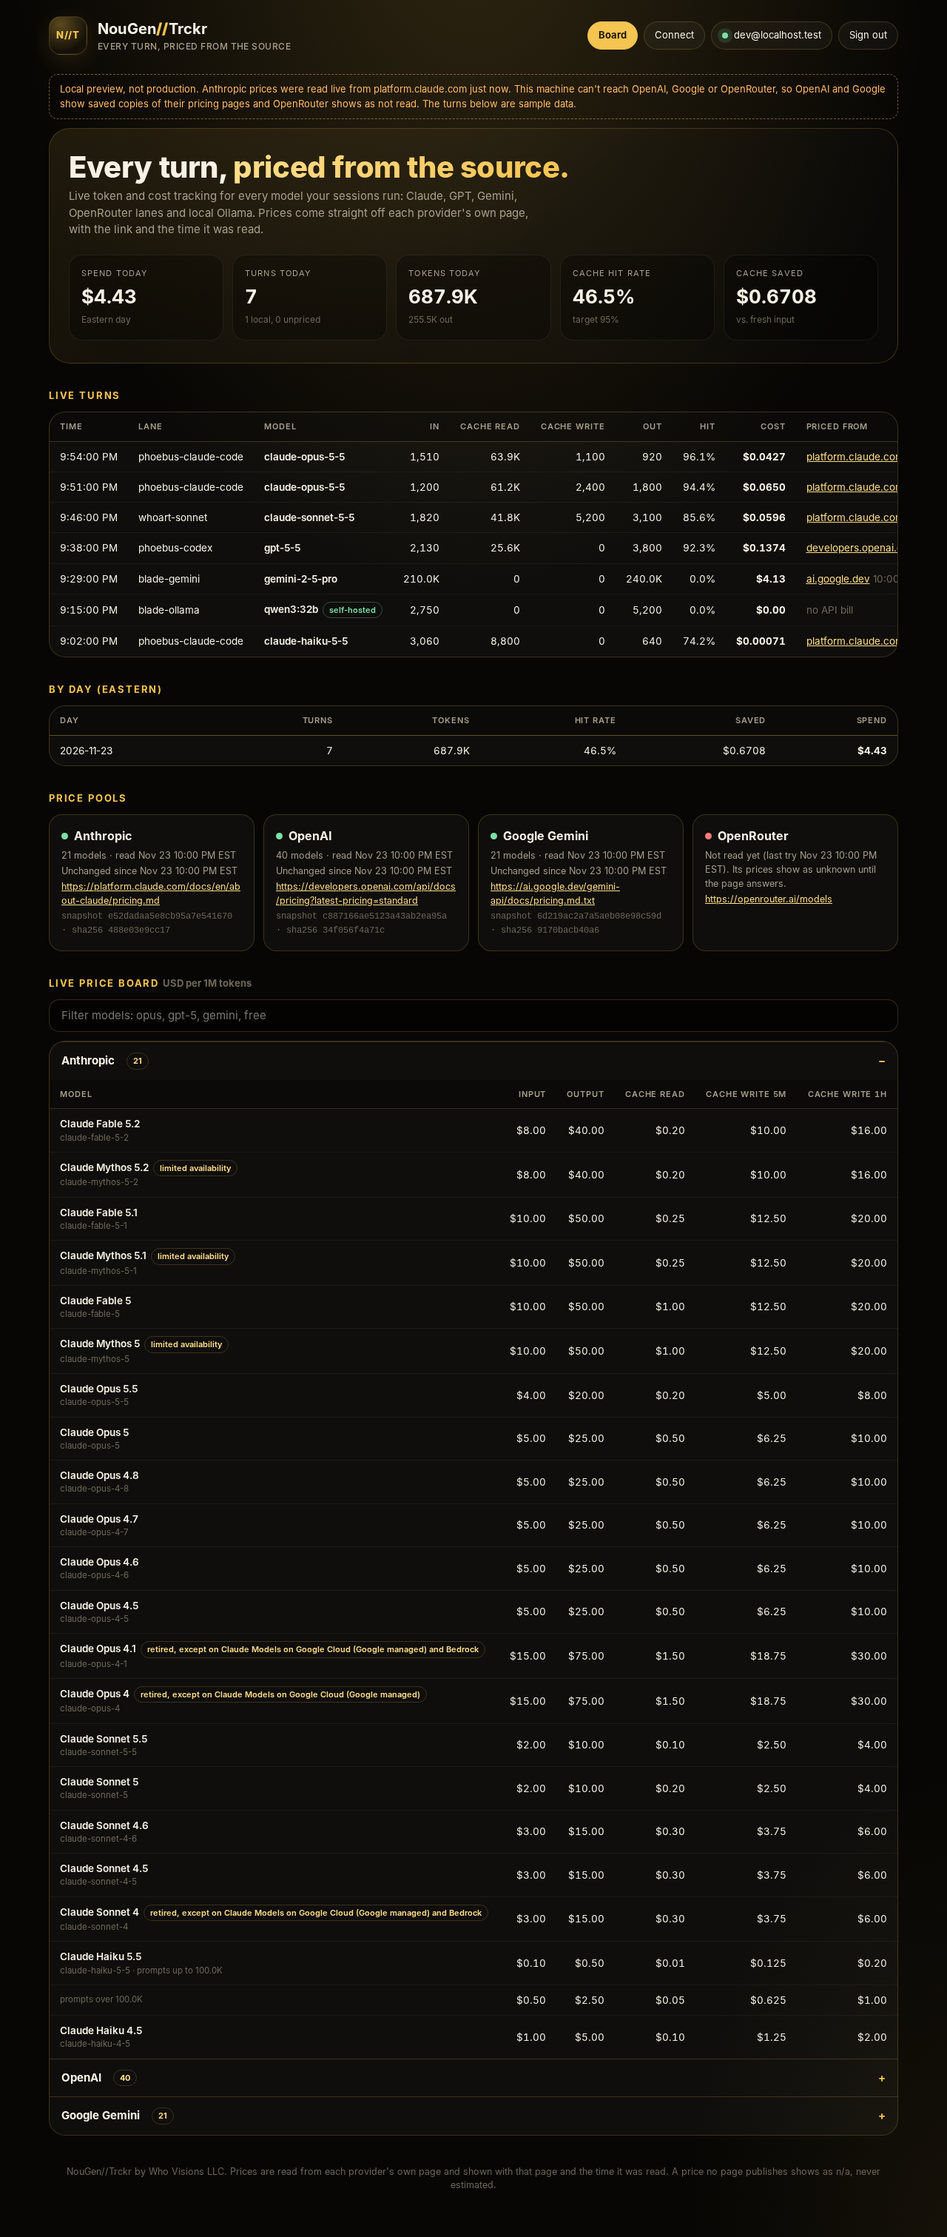
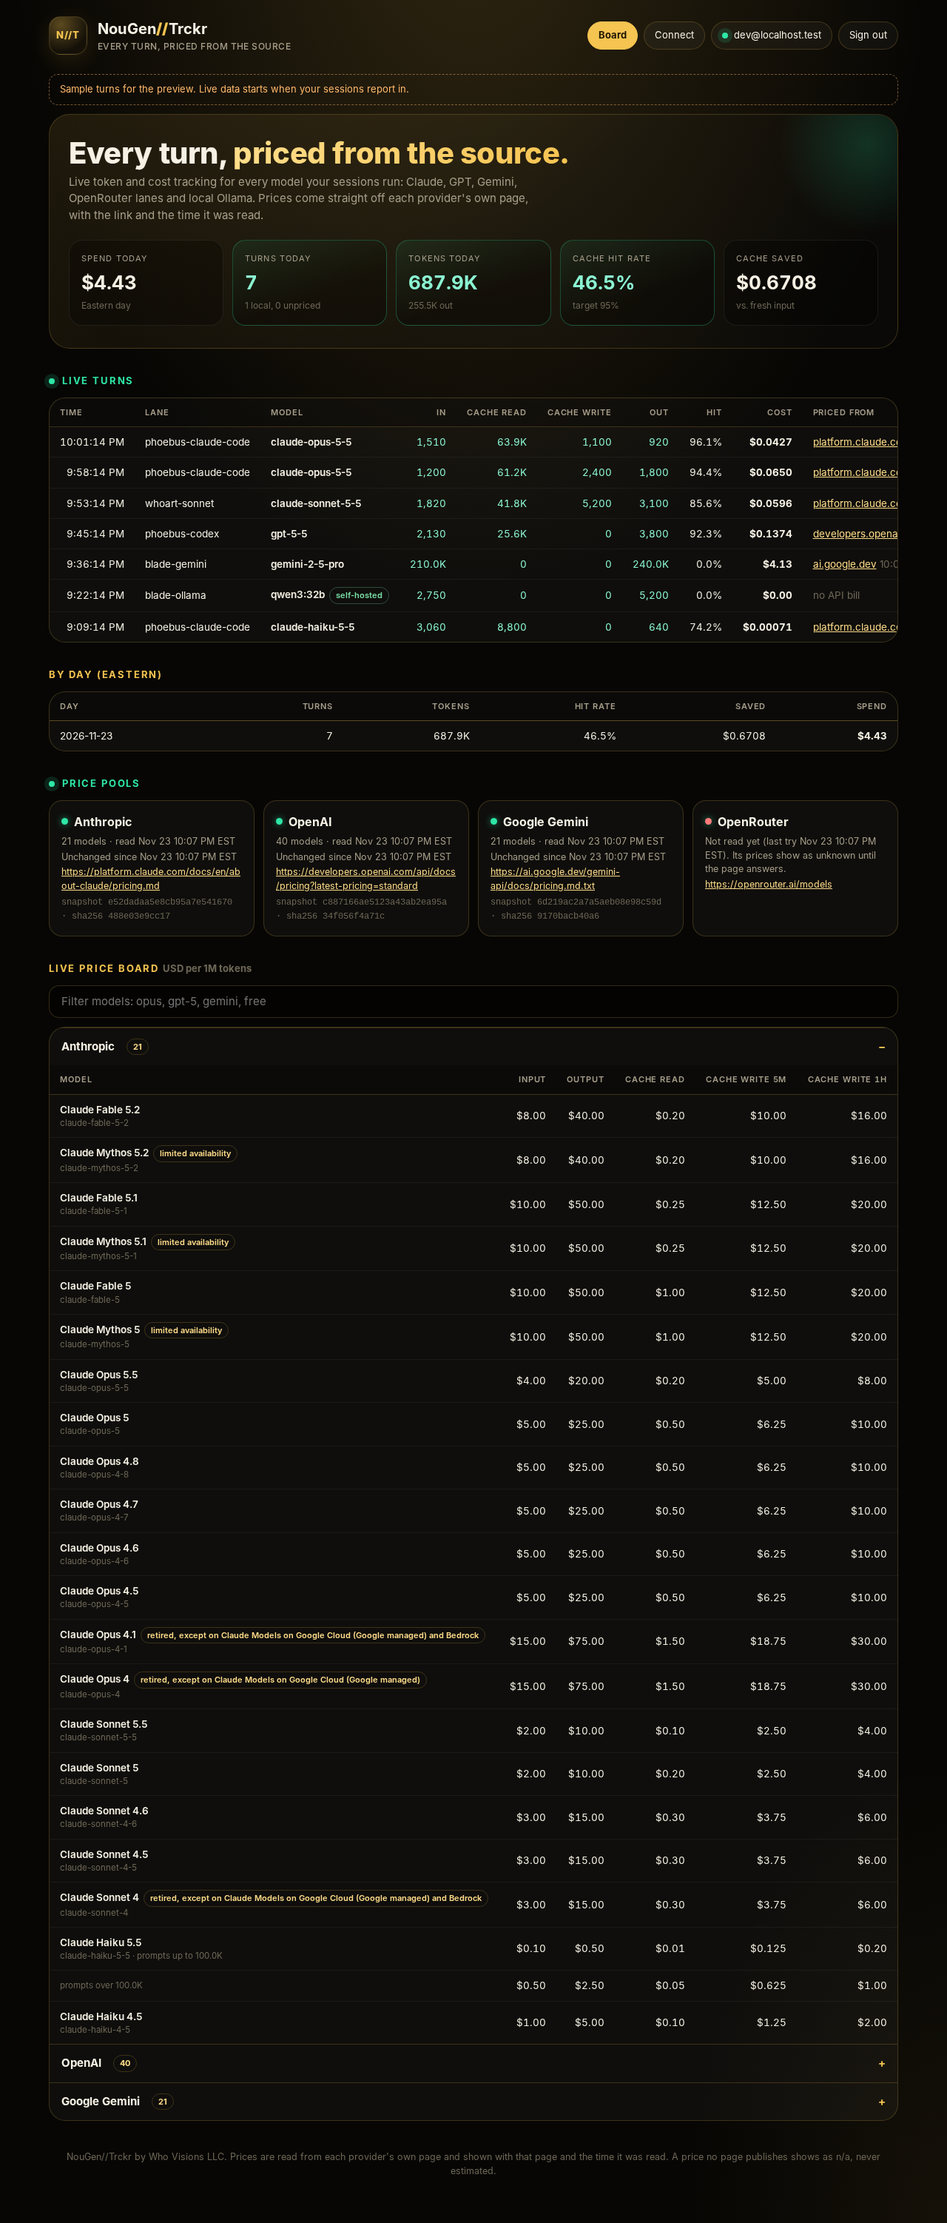
trckr: radar green for live tracking, prod deploy script with rollback and live smoke

diff --git a/workers/trckr/src/pages.js b/workers/trckr/src/pages.js
@@ -1,5 +1,5 @@
 // NouGen//Trckr pages: the OAuth steps (same three-step rail as NouGen//Eye) and the live board,
-// in Trckr's own look: gold on black glass, tabular numbers, every price with its source.
+// in Trckr's own look: gold for money and radar green for live tracking on black glass, every price with its source.
 import { fmtUsd } from './pricing/core.js';
 
 export const esc = (v) => String(v ?? '').replace(/[&<>"']/g, (c) => `&#${c.charCodeAt(0)};`);
@@ -22,7 +22,7 @@ const pct = (v) => (v === null || v === undefined ? 'n/a' : `${(v * 100).toFixed
 const money = (v) => (v === null || v === undefined ? '<span class="na">unpriced</span>' : esc(fmtUsd(v)));
 
 const CSS = `
-:root{color-scheme:dark;--gold:#f5c451;--gold2:#ffdd8a;--ink:#f6f1e4;--muted:#a89f8a;--dim:#6f6857;--line:rgba(245,196,81,.2);--glass:rgba(255,255,255,.035);--ok:#7be0a6;--warn:#ffb86b;--bad:#ff7a7a}
+:root{color-scheme:dark;--gold:#f5c451;--gold2:#ffdd8a;--ink:#f6f1e4;--muted:#a89f8a;--dim:#6f6857;--line:rgba(245,196,81,.2);--glass:rgba(255,255,255,.035);--ok:#7be0a6;--track:#2ee6a6;--track2:#8bf5d2;--trackline:rgba(46,230,166,.28);--warn:#ffb86b;--bad:#ff7a7a}
 *{box-sizing:border-box}
 html{background:#070604}
 body{margin:0;min-height:100vh;font:15px/1.5 ui-sans-serif,-apple-system,BlinkMacSystemFont,"Segoe UI",Roboto,sans-serif;color:var(--ink);
@@ -127,8 +127,12 @@ header.top{display:flex;align-items:center;gap:14px;flex-wrap:wrap;margin-bottom
 nav{margin-left:auto;display:flex;gap:8px;flex-wrap:wrap}
 nav a,.pill{display:inline-flex;align-items:center;gap:8px;padding:8px 14px;border-radius:999px;border:1px solid var(--line);background:var(--glass);color:var(--ink);text-decoration:none;font-size:13px}
 nav a.on{background:var(--gold);color:#1d1503;border-color:var(--gold);font-weight:650}
-.live{width:8px;height:8px;border-radius:50%;background:var(--ok);box-shadow:0 0 0 0 rgba(123,224,166,.6);animation:pulse 2s infinite}
-@keyframes pulse{70%{box-shadow:0 0 0 8px rgba(123,224,166,0)}100%{box-shadow:0 0 0 0 rgba(123,224,166,0)}}
+.live{width:8px;height:8px;border-radius:50%;background:var(--track);box-shadow:0 0 0 0 rgba(46,230,166,.6);animation:pulse 2s infinite}
+@keyframes pulse{70%{box-shadow:0 0 0 8px rgba(46,230,166,0)}100%{box-shadow:0 0 0 0 rgba(46,230,166,0)}}
+.trk{color:var(--track)}h2.trk{color:var(--track);display:flex;align-items:center;gap:10px}
+.stat.trk{border-color:var(--trackline);background:linear-gradient(160deg,rgba(46,230,166,.08),rgba(0,0,0,.28) 60%)}.stat.trk strong{color:var(--track2)}
+td.tk{color:var(--track2)}
+.hero::after{content:"";position:absolute;right:-90px;top:-90px;width:260px;height:260px;border-radius:50%;background:radial-gradient(circle,rgba(46,230,166,.18),rgba(46,230,166,0) 65%);pointer-events:none}
 @media (prefers-reduced-motion:reduce){.live{animation:none}}
 .hero{padding:30px 26px;border:1px solid var(--line);border-radius:28px;margin-bottom:22px;background:linear-gradient(135deg,rgba(245,196,81,.1),rgba(255,255,255,.015) 55%);position:relative;overflow:hidden}
 .hero h1{margin:0 0 6px;font-size:clamp(26px,4vw,40px);line-height:1.1;font-weight:760;letter-spacing:-.01em}
@@ -153,7 +157,7 @@ td.model{font-weight:600}td.model small{display:block;font-weight:400;color:var(
 .sources{display:grid;grid-template-columns:repeat(auto-fit,minmax(250px,1fr));gap:12px}
 .src{padding:16px;border-radius:18px;border:1px solid var(--line);background:var(--glass)}
 .src h3{margin:0 0 6px;font-size:16px;display:flex;align-items:center;gap:8px}
-.src .dot{width:9px;height:9px;border-radius:50%;background:var(--ok)}.src.off .dot{background:var(--bad)}
+.src .dot{width:9px;height:9px;border-radius:50%;background:var(--track);box-shadow:0 0 10px rgba(46,230,166,.6)}.src.off .dot{background:var(--bad)}
 .src p{margin:2px 0;color:var(--muted);font-size:12.5px;overflow-wrap:anywhere}
 .src code{font-size:11.5px;color:var(--dim)}
 details.prov{border-top:1px solid var(--line)}
@@ -224,27 +228,27 @@ export function boardView({ base, user, pools, usage, turns, days, sample }) {
   const stats = user
     ? `<div class="stats">
 <div class="stat"><span>Spend today</span><strong>${money(t?.cost_usd ?? 0)}</strong><small>Eastern day</small></div>
-<div class="stat"><span>Turns today</span><strong>${tok(t?.turns ?? 0)}</strong><small>${tok(t?.local ?? 0)} local, ${tok(t?.unpriced ?? 0)} unpriced</small></div>
-<div class="stat"><span>Tokens today</span><strong>${tok(t?.total_tokens ?? 0)}</strong><small>${tok(t?.output ?? 0)} out</small></div>
-<div class="stat"><span>Cache hit rate</span><strong>${pct(t?.cache_hit_rate)}</strong><small>target 95%</small></div>
+<div class="stat trk"><span>Turns today</span><strong>${tok(t?.turns ?? 0)}</strong><small>${tok(t?.local ?? 0)} local, ${tok(t?.unpriced ?? 0)} unpriced</small></div>
+<div class="stat trk"><span>Tokens today</span><strong>${tok(t?.total_tokens ?? 0)}</strong><small>${tok(t?.output ?? 0)} out</small></div>
+<div class="stat trk"><span>Cache hit rate</span><strong>${pct(t?.cache_hit_rate)}</strong><small>target 95%</small></div>
 <div class="stat"><span>Cache saved</span><strong>${money(t?.cache_savings_usd ?? 0)}</strong><small>vs. fresh input</small></div>
 </div>`
     : `<div class="stats">
-<div class="stat"><span>Providers read</span><strong>${live.length} of ${pools.length}</strong><small>from their own pages</small></div>
+<div class="stat trk"><span>Providers read</span><strong>${live.length} of ${pools.length}</strong><small>from their own pages</small></div>
 <div class="stat"><span>Models priced</span><strong>${tok(modelCount)}</strong><small>with cache tiers</small></div>
 <div class="stat"><span>Last read</span><strong style="font-size:18px">${esc(live.length ? clock(live.map((p) => p.snapshot.last_seen_at).sort().pop()) : 'not yet')}</strong><small>Eastern</small></div>
 <div class="stat"><span>Money math</span><strong>nano-$</strong><small>exact, no float</small></div>
 </div><div class="cta"><a class="btn primary" href="/connect">Connect your sessions</a><a class="btn" href="/login">Sign in for your turns</a></div>`;
 
   const feed = user
-    ? `<h2>Live turns</h2><div class="panel scroll">${
+    ? `<h2 class="trk"><span class="live" aria-hidden="true"></span>Live turns</h2><div class="panel scroll">${
         turns.length
           ? `<table><thead><tr><th>Time</th><th>Lane</th><th>Model</th><th class="n">In</th><th class="n">Cache read</th><th class="n">Cache write</th><th class="n">Out</th><th class="n">Hit</th><th class="n">Cost</th><th>Priced from</th></tr></thead><tbody>${turns
               .map((r) => {
                 const read = r.input_tokens + r.cache_read_tokens + r.cache_write_5m_tokens + r.cache_write_1h_tokens;
                 const tag = r.status === 'local' ? '<span class="tag local">self-hosted</span>' : r.status === 'priced' ? '' : `<span class="tag ${r.status === 'partial' ? 'warn' : 'bad'}">${esc(r.status)}</span>`;
                 return `<tr><td class="n">${esc(clock(r.at))}</td><td>${esc(r.lane)}</td><td class="model">${esc(r.model)}${tag}</td>
-<td class="n">${tok(r.input_tokens)}</td><td class="n">${tok(r.cache_read_tokens)}</td><td class="n">${tok(r.cache_write_5m_tokens + r.cache_write_1h_tokens)}</td><td class="n">${tok(r.output_tokens)}</td>
+<td class="n tk">${tok(r.input_tokens)}</td><td class="n tk">${tok(r.cache_read_tokens)}</td><td class="n tk">${tok(r.cache_write_5m_tokens + r.cache_write_1h_tokens)}</td><td class="n tk">${tok(r.output_tokens)}</td>
 <td class="n">${read ? pct(r.cache_read_tokens / read) : 'n/a'}</td><td class="n"><strong>${money(r.cost_usd)}</strong></td>
 <td>${r.source_url ? `<a href="${esc(r.source_url)}" rel="noopener">${esc(new URL(r.source_url).hostname)}</a> <span class="na">${esc(clock(r.price_fetched_at))}</span>` : `<span class="na">${esc(r.reason || (r.status === 'local' ? 'no API bill' : ''))}</span>`}</td></tr>`;
               })
@@ -256,7 +260,7 @@ ${days?.length ? `<h2>By day (Eastern)</h2><div class="panel scroll"><table><the
             .join('')}</tbody></table></div>` : ''}`
     : '';
 
-  const sources = `<h2>Price pools</h2><div class="sources">${pools
+  const sources = `<h2 class="trk"><span class="live" aria-hidden="true"></span>Price pools</h2><div class="sources">${pools
     .map((p) =>
       p.snapshot
         ? `<div class="src"><h3><span class="dot" aria-hidden="true"></span>${esc(p.label)}</h3>

diff --git a/workers/trckr/deploy/deploy_prod.py b/workers/trckr/deploy/deploy_prod.py
@@ -1,0 +1,278 @@
+#!/usr/bin/env python3
+"""Put NouGen//Trckr live at trckr.nougenai.com, with a rollback point and a live smoke test.
+
+Run on a fleet node that holds the Keymaker (stdlib only, plus npx for wrangler):
+
+    python3 workers/trckr/deploy/deploy_prod.py            # deploy + smoke
+    python3 workers/trckr/deploy/deploy_prod.py --smoke    # smoke only, nothing changes
+    python3 workers/trckr/deploy/deploy_prod.py --rollback # back to the version recorded before the last deploy
+
+Steps: find or create the D1 database, apply migrations, record the live version, deploy
+--env production (the custom domain makes the DNS record), load the three secrets, then
+check health, prices, the OAuth metadata, the 401 challenge, the Google hand-off and one
+priced turn through /mcp. Secrets go from the Keymaker straight into wrangler's stdin;
+nothing secret is printed or written to disk. Every name below can be overridden by env.
+"""
+import base64
+import hashlib
+import hmac
+import json
+import os
+import secrets
+import shutil
+import subprocess
+import sys
+import tempfile
+import time
+import urllib.error
+import urllib.request
+from pathlib import Path
+
+HERE = Path(__file__).resolve().parent
+WORKER = HERE.parent
+ENV = os.environ.get("TRCKR_ENV", "production")
+DB_NAME = os.environ.get("TRCKR_D1_NAME", "nougen-trckr")
+BASE = os.environ.get("TRCKR_BASE_URL", "https://trckr.nougenai.com").rstrip("/")
+EYE_CALLBACK = os.environ.get("TRCKR_EYE_CALLBACK", "https://eye.nougenai.com/oauth/google/callback")
+WRANGLER = os.environ.get("TRCKR_WRANGLER", "npx --yes wrangler@4").split()
+STATE = Path(os.environ.get("TRCKR_STATE_DIR", Path.home() / ".nougen" / "trckr")).expanduser()
+KEYS = {
+    "token": os.environ.get("TRCKR_KM_CF_TOKEN", "CLOUDFLARE_API_TOKEN"),
+    "account": os.environ.get("TRCKR_KM_CF_ACCOUNT", "CLOUDFLARE_ACCOUNT_ID"),
+    "signing": os.environ.get("TRCKR_KM_SIGNING", "TRCKR_SIGNING_SECRET"),
+    "google_id": os.environ.get("TRCKR_KM_GOOGLE_ID", "GOOGLE_OAUTH_CLIENT_ID"),
+    "google_secret": os.environ.get("TRCKR_KM_GOOGLE_SECRET", "GOOGLE_OAUTH_CLIENT_SECRET"),
+}
+
+
+def log(msg):
+    print(f"[trckr-deploy] {msg}", flush=True)
+
+
+def die(msg):
+    log(f"STOP: {msg}")
+    sys.exit(1)
+
+
+# ---------- Keymaker ----------
+def shards_dir():
+    for cand in (os.environ.get("NOUGEN_SHARDS_DIR"), Path.home() / "The Observatory" / "NouGen" / "nougenshards", Path.home() / ".nougen" / "src" / "nougenshards"):
+        if cand and (Path(cand) / "src" / "nougen_shards").is_dir():
+            return Path(cand)
+    die("Keymaker not found; set NOUGEN_SHARDS_DIR to the nougenshards checkout")
+
+
+def keymaker(names):
+    root = shards_dir()
+    py = next((p for p in (root / ".venv" / "bin" / "python", root / ".venv" / "Scripts" / "python.exe") if p.exists()), Path(sys.executable))
+    code = "import sys,json;sys.path.insert(0,'src');from nougen_shards import keymaker as k;print(json.dumps({n:(k.get_secret(n) or '') for n in json.loads(sys.stdin.read())}))"
+    out = subprocess.run([str(py), "-c", code], cwd=root, input=json.dumps(names), capture_output=True, text=True)
+    line = (out.stdout.strip().splitlines() or [""])[-1]
+    try:
+        return json.loads(line)
+    except ValueError:
+        die("Keymaker read failed (output withheld)")
+
+
+# ---------- wrangler ----------
+def wrangler(args, env, cfg, stdin=None, check=True):
+    cmd = WRANGLER + args + ["--config", str(cfg)]
+    out = subprocess.run(cmd, cwd=WORKER, env=env, input=stdin, capture_output=True, text=True, shell=(os.name == "nt"))
+    if check and out.returncode != 0:
+        tail = "\n".join((out.stderr or out.stdout).strip().splitlines()[-12:])
+        die(f"wrangler {' '.join(args[:3])} failed:\n{tail}")
+    return out
+
+
+def cf_env(km):
+    if not km.get(KEYS["token"]) or not km.get(KEYS["account"]):
+        die(f"Keymaker is missing {KEYS['token']} or {KEYS['account']}")
+    env = dict(os.environ)
+    env["CLOUDFLARE_API_TOKEN"] = km[KEYS["token"]]
+    env["CLOUDFLARE_ACCOUNT_ID"] = km[KEYS["account"]]
+    env["WRANGLER_SEND_METRICS"] = "false"
+    return env
+
+
+def resolved_config(db_id):
+    """A throwaway copy of wrangler.jsonc with the production D1 id filled in."""
+    text = (WORKER / "wrangler.jsonc").read_text()
+    text = text.replace("REPLACE_WITH_PROD_D1_ID", db_id)
+    cfg = WORKER / ".wrangler.deploy.jsonc"
+    cfg.write_text(text)
+    return cfg
+
+
+def ensure_d1(env):
+    cfg = WORKER / "wrangler.jsonc"
+    out = wrangler(["d1", "list", "--json"], env, cfg)
+    dbs = json.loads(out.stdout[out.stdout.find("[") :])
+    hit = next((d for d in dbs if d.get("name") == DB_NAME), None)
+    if hit:
+        log(f"D1 {DB_NAME} exists ({hit['uuid']})")
+        return hit["uuid"]
+    wrangler(["d1", "create", DB_NAME], env, cfg)
+    out = wrangler(["d1", "list", "--json"], env, cfg)
+    hit = next((d for d in json.loads(out.stdout[out.stdout.find("[") :]) if d.get("name") == DB_NAME), None)
+    if not hit:
+        die("D1 create reported success but the database is not listed")
+    log(f"D1 {DB_NAME} created ({hit['uuid']})")
+    return hit["uuid"]
+
+
+def live_version(env, cfg):
+    out = wrangler(["deployments", "list", "--env", ENV, "--json"], env, cfg, check=False)
+    if out.returncode != 0:
+        return None
+    try:
+        deps = json.loads(out.stdout[out.stdout.find("[") :])
+    except ValueError:
+        return None
+    if not deps:
+        return None
+    latest = sorted(deps, key=lambda d: d.get("created_on", ""))[-1]
+    vs = latest.get("versions") or []
+    return vs[0].get("version_id") if vs else None
+
+
+# ---------- smoke ----------
+def http(method, path, body=None, headers=None, follow=True):
+    url = path if path.startswith("http") else BASE + path
+    data = json.dumps(body).encode() if body is not None else None
+    req = urllib.request.Request(url, data=data, method=method, headers={"content-type": "application/json", "accept": "application/json", "user-agent": "nougen-trckr-deploy", **(headers or {})})
+    opener = urllib.request.build_opener() if follow else urllib.request.build_opener(NoRedirect)
+    try:
+        with opener.open(req, timeout=30) as r:
+            return r.status, dict(r.headers), r.read().decode()
+    except urllib.error.HTTPError as e:
+        return e.code, dict(e.headers), e.read().decode(errors="replace")
+
+
+class NoRedirect(urllib.request.HTTPRedirectHandler):
+    def redirect_request(self, *a, **k):
+        return None
+
+
+def b64u(raw):
+    return base64.urlsafe_b64encode(raw).rstrip(b"=").decode()
+
+
+def mint_access(signing_secret, email):
+    """Same token auth.js signs after Google sign-in: HS256 over sha256('nougen-trckr-oauth:'+secret)."""
+    key = hashlib.sha256(f"nougen-trckr-oauth:{signing_secret}".encode()).digest()
+    iat = int(time.time())
+    head = b64u(json.dumps({"alg": "HS256", "typ": "JWT"}, separators=(",", ":")).encode())
+    body = b64u(json.dumps({"email": email, "kind": "access", "iss": BASE, "iat": iat, "exp": iat + 600}, separators=(",", ":")).encode())
+    sig = b64u(hmac.new(key, f"{head}.{body}".encode(), hashlib.sha256).digest())
+    return f"{head}.{body}.{sig}"
+
+
+def smoke(signing_secret, email):
+    rec = {}
+    for _ in range(12):
+        s, _, b = http("GET", "/healthz")
+        if s == 200:
+            break
+        time.sleep(10)
+    rec["healthz"] = s
+    if s != 200:
+        die(f"/healthz answered {s}")
+    s, _, b = http("GET", "/.well-known/oauth-authorization-server")
+    rec["oauth_metadata"] = s
+    s, h, _ = http("POST", "/mcp", {"jsonrpc": "2.0", "id": 1, "method": "initialize", "params": {}})
+    rec["mcp_unauthed"] = s
+    rec["mcp_challenge"] = "resource_metadata" in (h.get("WWW-Authenticate") or h.get("www-authenticate") or "")
+    s, h, _ = http("GET", "/login", follow=False)
+    loc = h.get("Location") or h.get("location") or ""
+    rec["google_handoff"] = s in (302, 303) and "accounts.google.com" in loc and "trckr%7E" in loc.replace("~", "%7E")
+    s, h, _ = http("GET", f"{EYE_CALLBACK}?state=trckr~smoke&code=x", follow=False)
+    loc = h.get("Location") or h.get("location") or ""
+    rec["eye_relay"] = loc.startswith(f"{BASE}/oauth/google/callback")
+
+    # Prices: a cold board triggers the first read; give the pools a minute.
+    models = []
+    for _ in range(9):
+        s, _, b = http("GET", "/v1/prices")
+        prov = json.loads(b).get("providers", []) if s == 200 else []
+        rec["pools"] = {p["provider"]: len(p["models"]) for p in prov}
+        models = [m for p in prov if p["provider"] == "anthropic" for m in p["models"]]
+        if models:
+            break
+        http("GET", "/")
+        time.sleep(10)
+    if not models:
+        die(f"no Anthropic prices read yet: {rec.get('pools')}")
+
+    tok = mint_access(signing_secret, email)
+    auth = {"authorization": f"Bearer {tok}"}
+    s, _, b = http("POST", "/mcp", {"jsonrpc": "2.0", "id": 1, "method": "initialize", "params": {"protocolVersion": "2025-06-18", "capabilities": {}, "clientInfo": {"name": "trckr-deploy", "version": "1"}}}, auth)
+    rec["mcp_initialize"] = s
+    model = models[0].get("model") or models[0].get("id")
+    turn = {"provider": "anthropic", "model": model, "input_tokens": 1200, "output_tokens": 800, "cache_read_tokens": 30000, "cache_write_5m_tokens": 2000}
+    s, _, b = http("POST", "/mcp", {"jsonrpc": "2.0", "id": 2, "method": "tools/call", "params": {"name": "trckr_turn_cost", "arguments": turn}}, auth)
+    res = (json.loads(b).get("result") or {}) if s == 200 else {}
+    sc = res.get("structuredContent") or {}
+    rec["priced_turn"] = {"model": model, "status": sc.get("status"), "cost_usd": sc.get("cost_usd"), "source_url": ((sc.get("price") or {}).get("ref") or {}).get("source_url")}
+    if sc.get("status") not in ("priced", "partial"):
+        die(f"priced turn failed: {rec['priced_turn']}")
+    return rec
+
+
+# ---------- main ----------
+def main():
+    args = set(sys.argv[1:])
+    STATE.mkdir(parents=True, exist_ok=True)
+    km = keymaker(list(KEYS.values()))
+    signing = km.get(KEYS["signing"]) or ""
+    email = (os.environ.get("TRCKR_SMOKE_EMAIL") or "whoentertains@gmail.com").split(",")[0]
+
+    if "--smoke" in args:
+        if not signing:
+            die(f"--smoke needs {KEYS['signing']} in the Keymaker")
+        print(json.dumps({"smoke": smoke(signing, email)}, indent=2))
+        return
+
+    if not shutil.which(WRANGLER[0]):
+        die(f"{WRANGLER[0]} not on PATH")
+    env = cf_env(km)
+    db_id = ensure_d1(env)
+    cfg = resolved_config(db_id)
+    try:
+        if "--rollback" in args:
+            prev = json.loads((STATE / "last_deploy.json").read_text()).get("previous_version")
+            if not prev:
+                die("no previous version recorded (first deploy); delete the worker instead if needed")
+            wrangler(["rollback", prev, "--env", ENV, "--message", "trckr rollback", "-y"], env, cfg)
+            log(f"rolled back to {prev}")
+            return
+
+        wrangler(["d1", "migrations", "apply", DB_NAME, "--remote", "--env", ENV], env, cfg, stdin="y\n")
+        log("migrations applied")
+        prev = live_version(env, cfg)
+        log(f"live version before deploy: {prev or 'none (first deploy)'}")
+
+        out = wrangler(["deploy", "--env", ENV], env, cfg)
+        version = next((ln.split(":", 1)[1].strip() for ln in out.stdout.splitlines() if "Version ID" in ln), None)
+        log(f"deployed version {version}")
+
+        generated = False
+        if not signing:
+            signing, generated = secrets.token_urlsafe(48), True
+        if not km.get(KEYS["google_id"]) or not km.get(KEYS["google_secret"]):
+            die(f"Keymaker is missing {KEYS['google_id']} or {KEYS['google_secret']}")
+        bulk = json.dumps({"TRCKR_SIGNING_SECRET": signing, "GOOGLE_CLIENT_ID": km[KEYS["google_id"]], "GOOGLE_CLIENT_SECRET": km[KEYS["google_secret"]]})
+        wrangler(["secret", "bulk", "--env", ENV], env, cfg, stdin=bulk)
+        log("3 secrets set" + (" (signing secret generated; it is not in the Keymaker)" if generated else ""))
+        version = live_version(env, cfg) or version
+
+        receipt = {"at": time.strftime("%Y-%m-%dT%H:%M:%SZ", time.gmtime()), "url": BASE, "worker_env": ENV, "d1": {"name": DB_NAME, "id": db_id}, "version": version, "previous_version": prev, "rollback": f"python3 {Path(__file__).name} --rollback", "signing_secret_generated": generated}
+        (STATE / "last_deploy.json").write_text(json.dumps(receipt, indent=2))
+        receipt["smoke"] = smoke(signing, email)
+        (STATE / "last_deploy.json").write_text(json.dumps(receipt, indent=2))
+        print(json.dumps(receipt, indent=2))
+    finally:
+        cfg.unlink(missing_ok=True)
+
+
+if __name__ == "__main__":
+    main()
